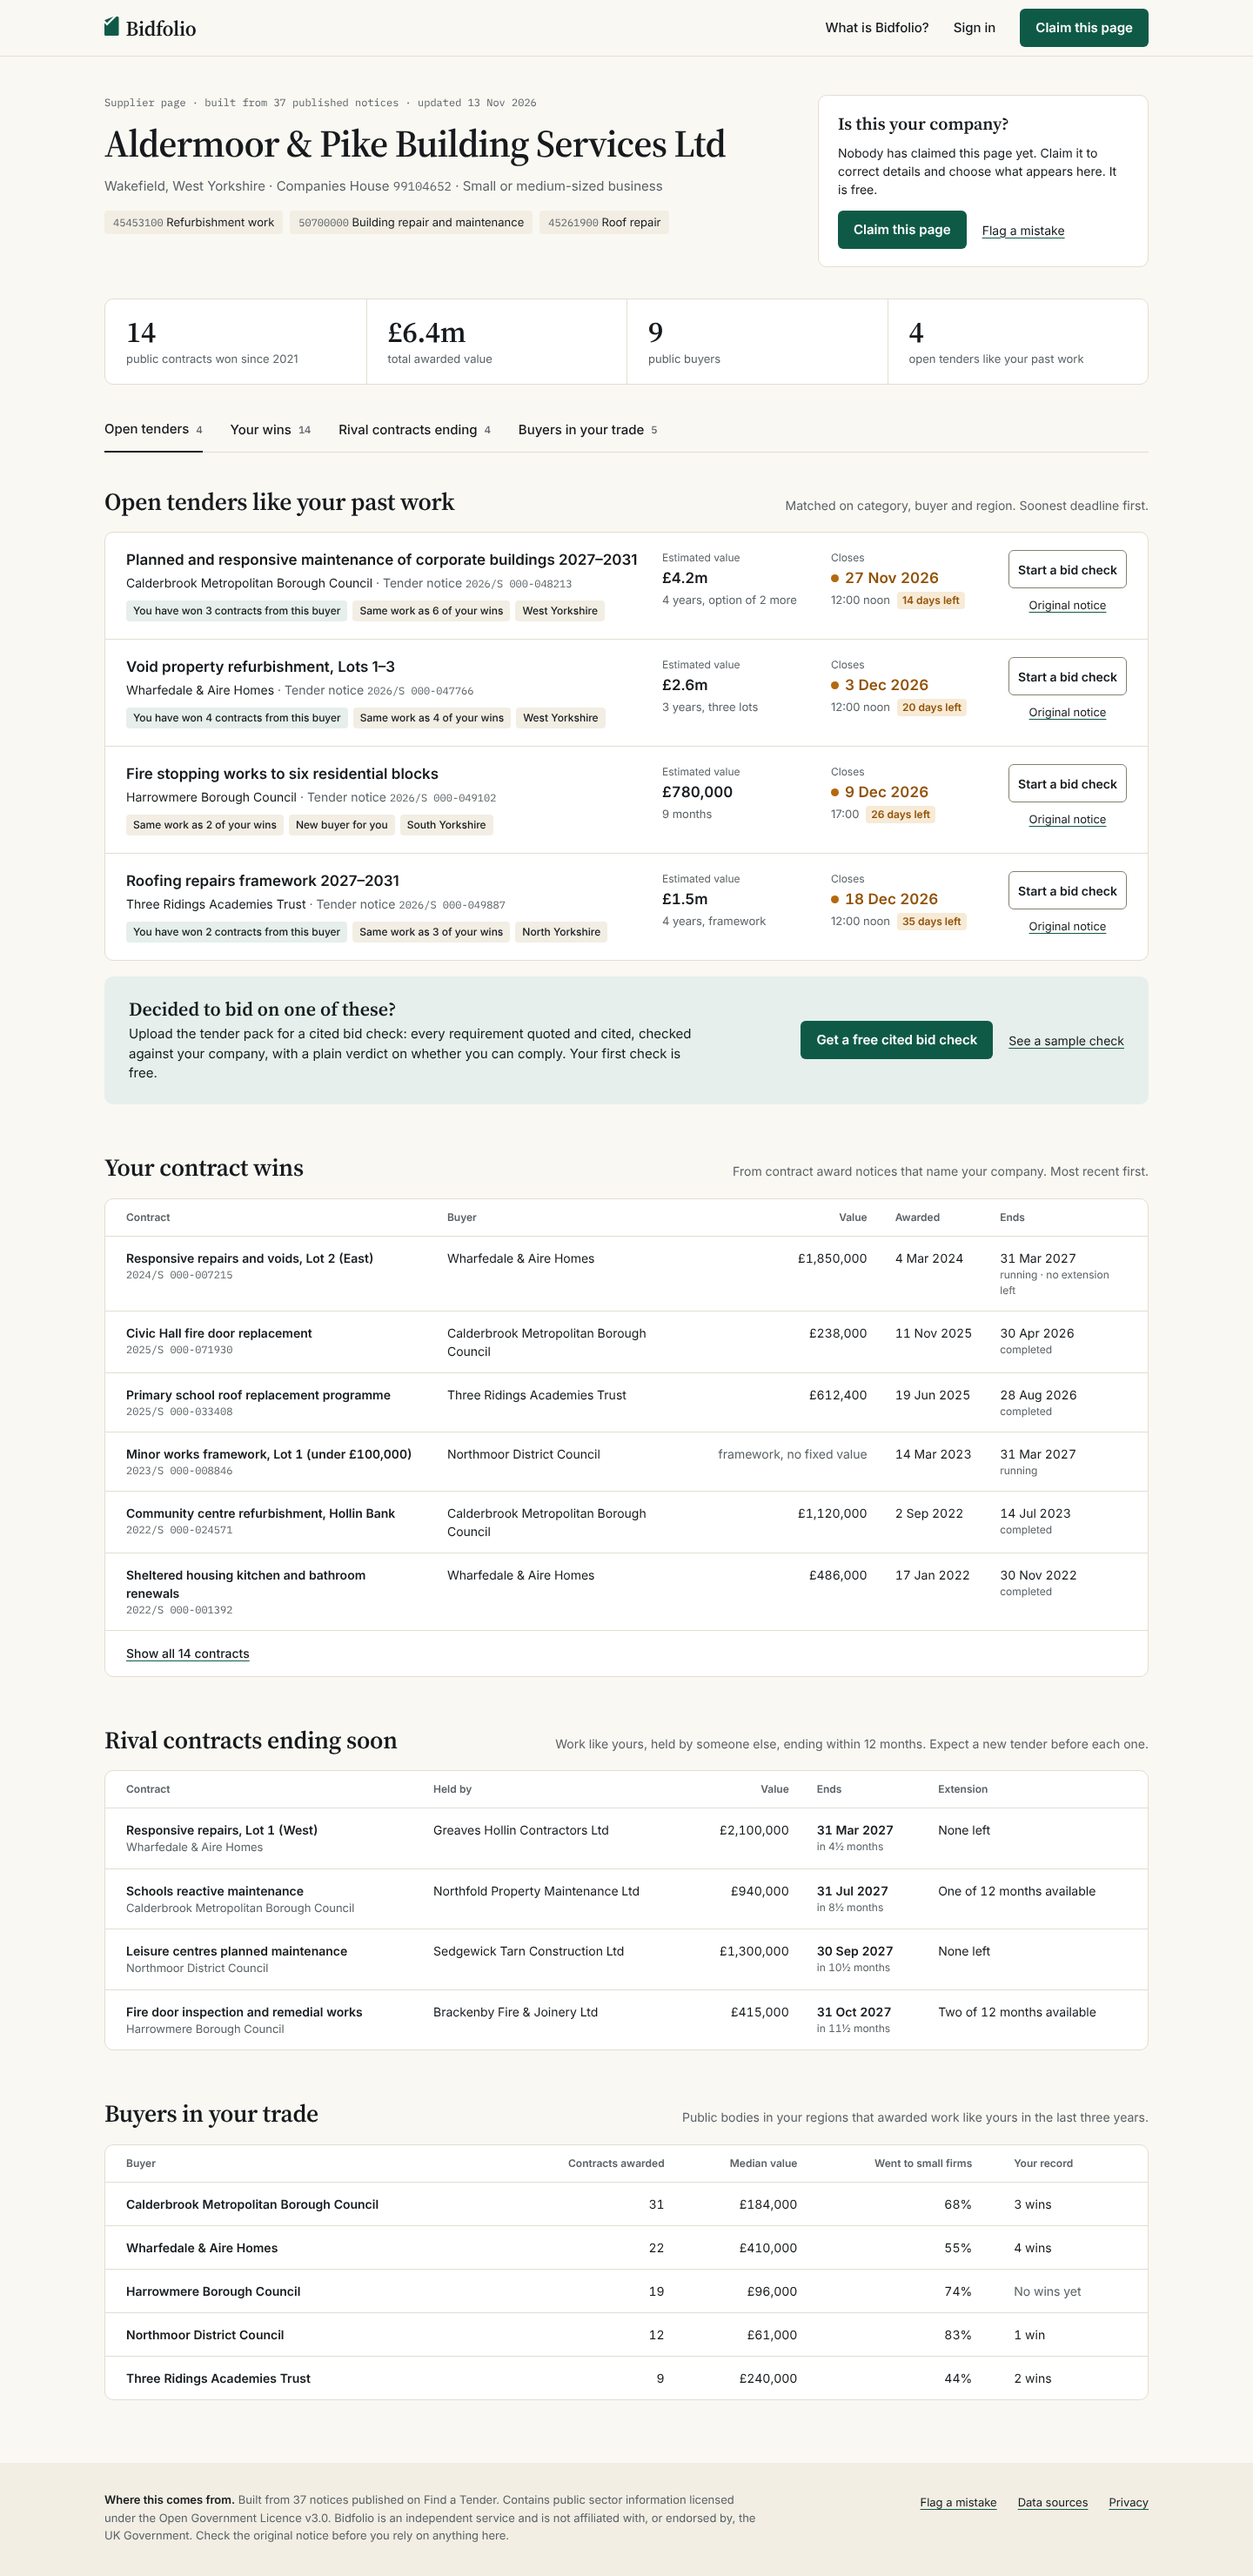
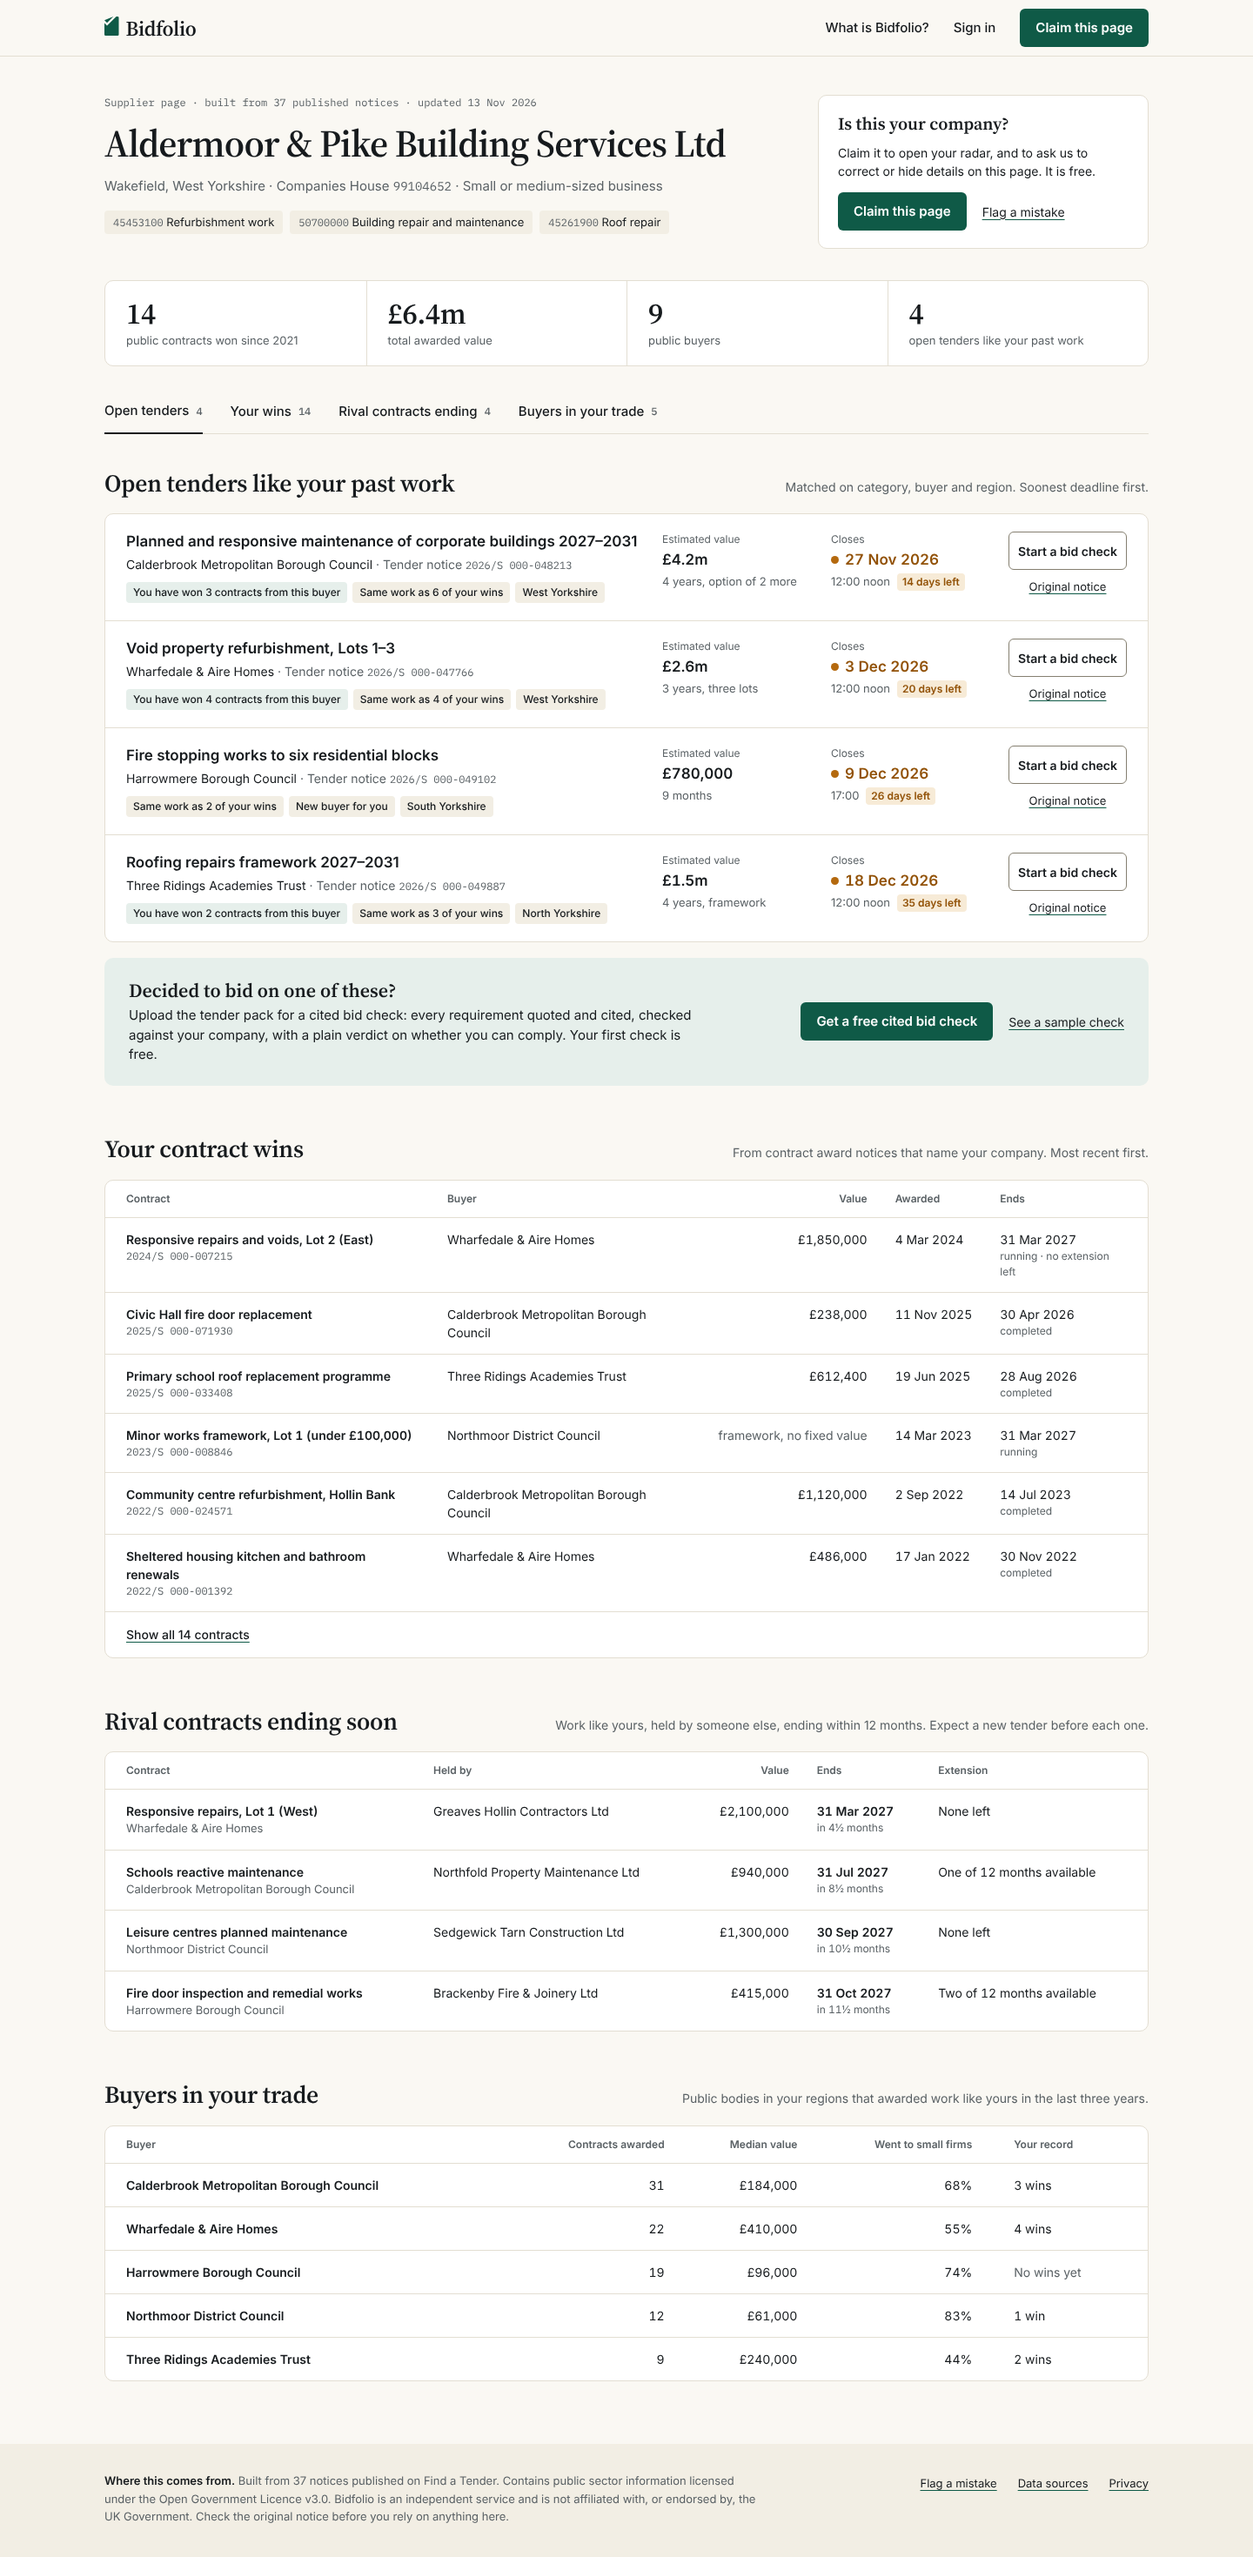
Design handoff: designer's quick fixes (claim copy on the supplier page, frame heights)
Claude-Session: https://claude.ai/code/session_01QtwDV764zbwZrPMdXHyikj

diff --git a/docs/design/handoff/Supplier-1440.dc.html b/docs/design/handoff/Supplier-1440.dc.html
@@ -49,7 +49,7 @@ a{color:#161A1D}a:hover{color:#0F5A47}
         </div>
         <div id="claim" style="flex: 0 1 380px; min-width: 0; box-sizing: border-box; background: #FFFFFF; border: 1px solid #E3DED2; border-radius: 10px; padding: 20px 22px; display: flex; flex-direction: column; gap: 10px">
           <h2 style="font-family: 'Source Serif 4', Georgia, serif; font-weight: 600; font-size: 20px; line-height: 1.25">Is this your company?</h2>
-          <p style="font-size: 14px; line-height: 1.5">Nobody has claimed this page yet. Claim it to correct details and choose what appears here. It is free.</p>
+          <p style="font-size: 14px; line-height: 1.5">Claim it to open your radar, and to ask us to correct or hide details on this page. It is free.</p>
           <div style="display: flex; flex-wrap: wrap; align-items: center; gap: 6px 18px; padding-top: 4px">
             <a href="Claim-1440.dc.html" style="box-sizing: border-box; min-height: 44px; display: inline-flex; align-items: center; padding: 10px 18px; font-size: 15px; font-weight: 600; text-decoration: none; color: #FFFFFF; background: #0F5A47; border-radius: 6px">Claim this page</a>
             <a href="#" style="font-size: 14px; padding: 11px 0; text-decoration: underline; text-decoration-color: #0F5A47; text-underline-offset: 3px">Flag a mistake</a>
@@ -403,7 +403,7 @@ a{color:#161A1D}a:hover{color:#0F5A47}
 
 </div>
 </x-dc>
-<script type="text/x-dc" data-dc-script data-props='{"$preview":{"width":1440,"height":2930}}'>
+<script type="text/x-dc" data-dc-script data-props='{"$preview":{"width":1440,"height":2980}}'>
 class Component extends DCLogic {
   renderVals() {
     return {};

diff --git a/docs/design/handoff/render/Supplier-1440.html b/docs/design/handoff/render/Supplier-1440.html
@@ -41,7 +41,7 @@ a{color:#161A1D}a:hover{color:#0F5A47}
         </div>
         <div id="claim" style="flex: 0 1 380px; min-width: 0; box-sizing: border-box; background: #FFFFFF; border: 1px solid #E3DED2; border-radius: 10px; padding: 20px 22px; display: flex; flex-direction: column; gap: 10px">
           <h2 style="font-family: 'Source Serif 4', Georgia, serif; font-weight: 600; font-size: 20px; line-height: 1.25">Is this your company?</h2>
-          <p style="font-size: 14px; line-height: 1.5">Nobody has claimed this page yet. Claim it to correct details and choose what appears here. It is free.</p>
+          <p style="font-size: 14px; line-height: 1.5">Claim it to open your radar, and to ask us to correct or hide details on this page. It is free.</p>
           <div style="display: flex; flex-wrap: wrap; align-items: center; gap: 6px 18px; padding-top: 4px">
             <a href="Claim-1440.dc.html" style="box-sizing: border-box; min-height: 44px; display: inline-flex; align-items: center; padding: 10px 18px; font-size: 15px; font-weight: 600; text-decoration: none; color: #FFFFFF; background: #0F5A47; border-radius: 6px">Claim this page</a>
             <a href="#" style="font-size: 14px; padding: 11px 0; text-decoration: underline; text-decoration-color: #0F5A47; text-underline-offset: 3px">Flag a mistake</a>

diff --git a/docs/design/handoff/Supplier-390.dc.html b/docs/design/handoff/Supplier-390.dc.html
@@ -41,7 +41,7 @@ a{color:#161A1D}a:hover{color:#0F5A47}
     <div id="claim" style="margin-top: 20px; background: #FFFFFF; border: 1px solid #E3DED2; border-radius: 10px; padding: 12px 12px 12px 16px; display: flex; align-items: center; justify-content: space-between; gap: 12px">
       <div style="display: flex; flex-direction: column; min-width: 0">
         <span style="font-size: 15px; font-weight: 600">Is this your company?</span>
-        <span style="font-size: 13px; color: #5A6165">Claim it to correct details. Free.</span>
+        <span style="font-size: 13px; color: #5A6165">Claim it to open your radar. Free.</span>
       </div>
       <a href="Claim-390.dc.html" style="flex-shrink: 0; box-sizing: border-box; min-height: 44px; display: inline-flex; align-items: center; padding: 10px 16px; font-size: 15px; font-weight: 600; text-decoration: none; color: #FFFFFF; background: #0F5A47; border-radius: 6px">Claim page</a>
     </div>

diff --git a/docs/design/handoff/render/Supplier-390.html b/docs/design/handoff/render/Supplier-390.html
@@ -33,7 +33,7 @@ a{color:#161A1D}a:hover{color:#0F5A47}
     <div id="claim" style="margin-top: 20px; background: #FFFFFF; border: 1px solid #E3DED2; border-radius: 10px; padding: 12px 12px 12px 16px; display: flex; align-items: center; justify-content: space-between; gap: 12px">
       <div style="display: flex; flex-direction: column; min-width: 0">
         <span style="font-size: 15px; font-weight: 600">Is this your company?</span>
-        <span style="font-size: 13px; color: #5A6165">Claim it to correct details. Free.</span>
+        <span style="font-size: 13px; color: #5A6165">Claim it to open your radar. Free.</span>
       </div>
       <a href="Claim-390.dc.html" style="flex-shrink: 0; box-sizing: border-box; min-height: 44px; display: inline-flex; align-items: center; padding: 10px 16px; font-size: 15px; font-weight: 600; text-decoration: none; color: #FFFFFF; background: #0F5A47; border-radius: 6px">Claim page</a>
     </div>

diff --git a/docs/design/handoff/Editor-390.dc.html b/docs/design/handoff/Editor-390.dc.html
@@ -218,7 +218,7 @@ details[open]>summary svg{transform:rotate(180deg)}
 
 </div>
 </x-dc>
-<script type="text/x-dc" data-dc-script data-props='{"$preview":{"width":390,"height":3760}}'>
+<script type="text/x-dc" data-dc-script data-props='{"$preview":{"width":390,"height":3800}}'>
 class Component extends DCLogic {
   renderVals() {
     return { yes: true };

diff --git a/docs/design/handoff/Editor-1440.dc.html b/docs/design/handoff/Editor-1440.dc.html
@@ -247,7 +247,7 @@ button{font-family:inherit;cursor:pointer}
 
 </div>
 </x-dc>
-<script type="text/x-dc" data-dc-script data-props='{"$preview":{"width":1440,"height":2100}}'>
+<script type="text/x-dc" data-dc-script data-props='{"$preview":{"width":1440,"height":2130}}'>
 class Component extends DCLogic {
   renderVals() {
     return {};
